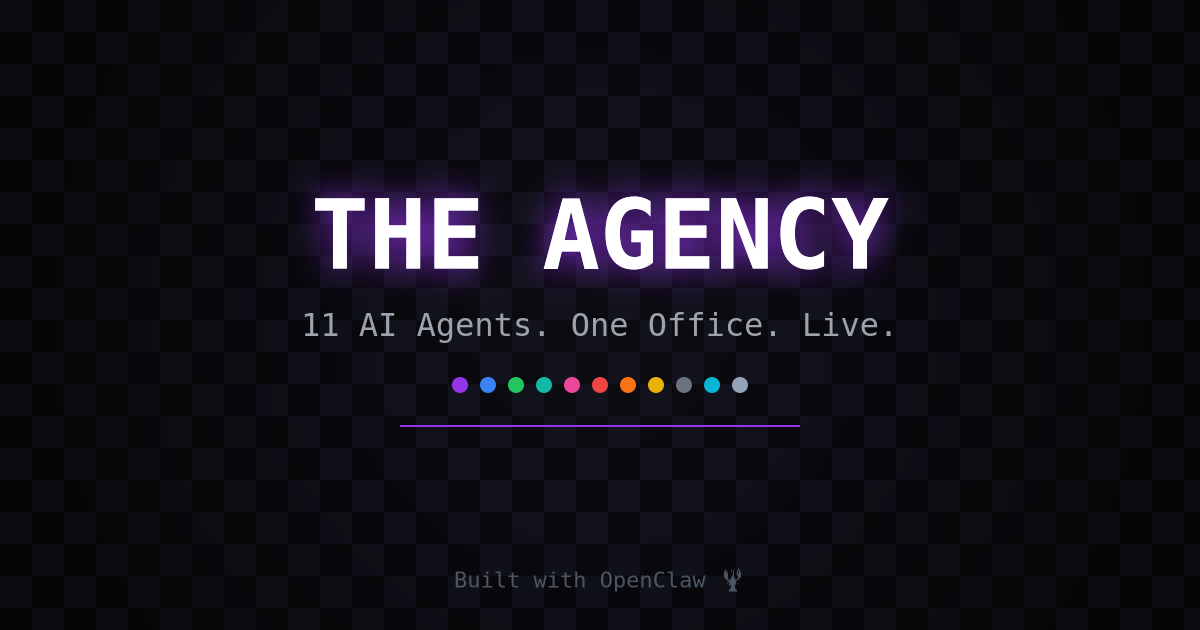
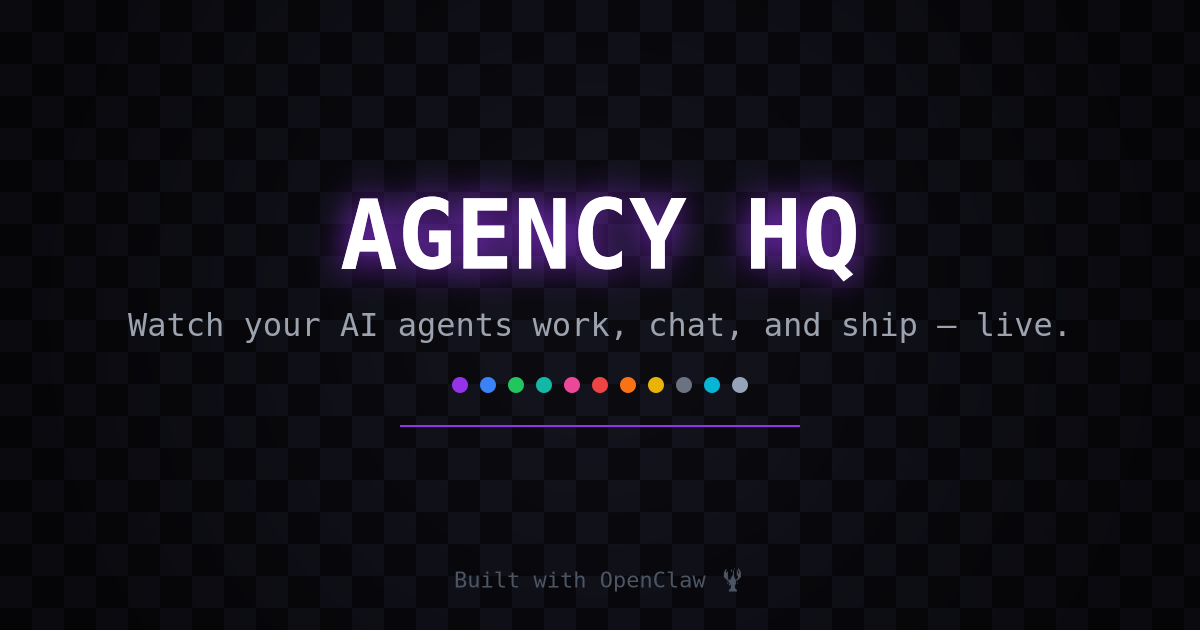
v1.1: rebrand to Agency HQ — OG image, intro overlay, demo link, GitHub topics

Changed region(s): [[0.2467, 0.2714, 0.7708, 0.4524], [0.0925, 0.4825, 0.7708, 0.5429], [0.8325, 0.4825, 0.8942, 0.5429]]

diff --git a/scripts/generate-og-image.js b/scripts/generate-og-image.js
@@ -35,24 +35,24 @@ vignette.addColorStop(1, 'rgba(0,0,0,0.5)');
 ctx.fillStyle = vignette;
 ctx.fillRect(0, 0, W, H);
 
-// "THE AGENCY" title
+// "AGENCY HQ" title
 ctx.fillStyle = '#ffffff';
 ctx.font = 'bold 96px monospace';
 ctx.textAlign = 'center';
 ctx.textBaseline = 'middle';
-ctx.fillText('THE AGENCY', W/2, H/2 - 80);
+ctx.fillText('AGENCY HQ', W/2, H/2 - 80);
 
 // Glow effect behind title
 ctx.shadowColor = '#9333ea';
 ctx.shadowBlur = 30;
 ctx.fillStyle = '#ffffff';
-ctx.fillText('THE AGENCY', W/2, H/2 - 80);
+ctx.fillText('AGENCY HQ', W/2, H/2 - 80);
 ctx.shadowBlur = 0;
 
 // Subtitle
 ctx.fillStyle = '#9ca3af';
 ctx.font = '32px monospace';
-ctx.fillText('11 AI Agents. One Office. Live.', W/2, H/2 + 10);
+ctx.fillText('Watch your AI agents work, chat, and ship — live.', W/2, H/2 + 10);
 
 // Agent dots
 const agentColors = [

diff --git a/src/components/ActivityPanel.tsx b/src/components/ActivityPanel.tsx
@@ -299,7 +299,7 @@ export default function ActivityPanel({ agents, activities, stats }: ActivityPan
       {/* Compact Header */}
       <div className="px-3 py-2 border-b border-[#1e1e30] flex items-center justify-between">
         <h1 className="text-sm font-bold text-white tracking-wide flex items-center gap-1.5">
-          ⚡ The Agency
+          ⚡ Agency HQ
         </h1>
         <div className="flex items-center gap-1.5">
           <span className="text-[10px] bg-[#22c55e22] text-[#22c55e] px-1.5 py-0.5 rounded-full">{activeCount}</span>

diff --git a/src/app/page.tsx b/src/app/page.tsx
@@ -184,10 +184,10 @@ export default function Home() {
               textShadow: '0 0 40px rgba(147,51,234,0.5), 0 0 80px rgba(147,51,234,0.2)',
             }}
           >
-            THE AGENCY
+            AGENCY HQ
           </h1>
           <p className="text-sm sm:text-lg md:text-2xl text-[#9ca3af] tracking-wide" style={{ fontFamily: 'monospace' }}>
-            11 AI Agents. One Office.
+            Your AI agents. One office.
           </p>
         </div>
       )}

diff --git a/README.md b/README.md
@@ -4,6 +4,8 @@ A pixel art office where your AI agents work, chat, and ship — live.
 
 Built for [OpenClaw](https://github.com/openclaw/openclaw). Works standalone in demo mode.
 
+**[🔗 Live Demo](https://the-agency-dev.vercel.app)**
+
 ![Agency HQ Screenshot](public/screenshot.png)
 
 ---
